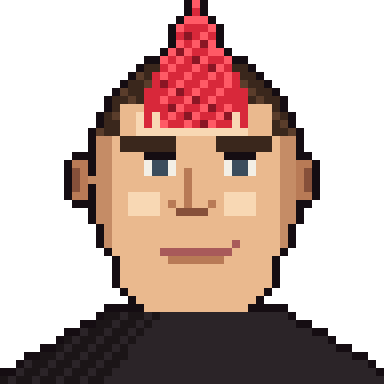
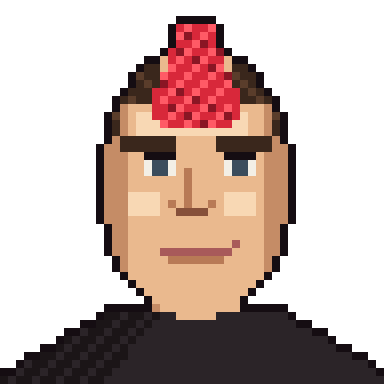
Portraits: Norm narrower/longer face and flat-top mohawk, Skip smaller, Walt beard same colour as hair
Claude-Session: https://claude.ai/code/session_01EHzhXZk3eB39kdtoeYCRr2

diff --git a/src/characters.js b/src/characters.js
@@ -120,12 +120,12 @@ const PX = (cv, st = {}) => {
 };
 const SK = { skin: '#e2a977', skinLt: '#f3cc9f', skinSh: '#b87a56', skinDk: '#86503a' };
 const SK2 = { skin: '#eab98e', skinLt: '#f8d8b4', skinSh: '#c58c66', skinDk: '#93603f' };   // paler
-Object.assign(PAL, { hairLt: '#a67f58', hairLt2: '#c49a6c', beardLt: '#8f6b4c', beardLt2: '#a98462', black: '#1b1517', blk2: '#2b2428', grey: '#8a8f98', greyDk: '#5a5f69', greyLt: '#b8bcc4', brown: '#5a3d2b', brownDk: '#3a271c', brownLt: '#7a573d', blond: '#9a7a52', blondLt: '#c4a26c', red: '#d8283a', redDk: '#8a1624', redLt: '#ff5a66', glass: '#c9d6dc', teal: '#2e6e7a', paisley: '#2e2d3a', paisley2: '#6a6a82', white: '#f3efe6' });
+Object.assign(PAL, { hairLt: '#a67f58', hairLt2: '#c49a6c', beardLt: '#a67f58', beardLt2: '#c49a6c', black: '#1b1517', blk2: '#2b2428', grey: '#8a8f98', greyDk: '#5a5f69', greyLt: '#b8bcc4', brown: '#5a3d2b', brownDk: '#3a271c', brownLt: '#7a573d', blond: '#9a7a52', blondLt: '#c4a26c', red: '#d8283a', redDk: '#8a1624', redLt: '#ff5a66', glass: '#c9d6dc', teal: '#2e6e7a', paisley: '#2e2d3a', paisley2: '#6a6a82', white: '#f3efe6' });
 
 function headBase(P, sk, o = {}) {
   const { px, ell } = P, rx = o.rx || 14, ry = o.ry || 15.5, cx = o.cx || 24, cy = o.cy || 22;
   ell(cx, cy, rx, ry, null, (x) => (x < cx - rx + 3 || x > cx + rx - 3 ? sk.skinSh : sk.skin));
-  for (let y = cy + 6; y <= cy + ry + 1; y++) for (let x = cx - 9; x <= cx + 9; x++) if (y <= cy + ry + 1 - Math.max(0, Math.abs(x - cx) - 6) * 0.9) px(x, y, sk.skin);   // squarer jaw
+  if (o.jaw !== false) for (let y = cy + 6; y <= cy + ry + 1; y++) for (let x = cx - 9; x <= cx + 9; x++) if (y <= cy + ry + 1 - Math.max(0, Math.abs(x - cx) - 6) * 0.9) px(x, y, sk.skin);   // squarer jaw
   px(cx - 7, cy - 8, sk.skinLt, 14, 3); px(cx - 8, cy + 2, sk.skinLt, 4, 3); px(cx + 4, cy + 2, sk.skinLt, 4, 3);
 }
 function neckShirt(P, sk, shirt, shirtSh, y0 = 38, slope = 2.3, start = 12) {
@@ -167,6 +167,11 @@ export function paintDing(cv, st = {}) {
 
 // DEALONE: long windswept brown hair, thin round-rectangular glasses, big open smile, light stubble, paisley bandana, grey jacket.
 export function paintDealone(cv, st = {}) {
+  const tmp = document.createElement('canvas'); paintDealoneFull(tmp, st);
+  cv.width = 48; cv.height = 48; const g = cv.getContext('2d'); g.clearRect(0, 0, 48, 48); g.imageSmoothingEnabled = false;
+  g.drawImage(tmp, 5, 9, 38, 38);   // a bit further away: ~80 % size, standing on the bottom edge
+}
+function paintDealoneFull(cv, st = {}) {
   const P = PX(cv, st), { px, ell, poly } = P;
   // hair behind the head: long, to the shoulders, with a flyaway tuft up-left
   poly([[10, 12], [11, 4], [16, 1], [24, 2], [32, 3], [37, 8], [38, 20], [38, 36], [34, 38], [14, 38], [10, 34], [9, 20]], null, (x, y) => ((x * 3 + y * 2) % 7 < 1 ? 'brownLt' : (x + y * 3) % 11 === 0 ? 'brownDk' : 'brown'));
@@ -258,18 +263,17 @@ export function paintTilah(cv, st = {}) {
   const P = PX(cv, st), { px, ell, poly } = P;
   // mohawk spikes (behind / above the head)
   neckShirt(P, SK2, 'blk2', 'black', 39, 1.7, 11);
-  headBase(P, SK2, { rx: 13, ry: 15.5, cx: 24, cy: 22 });
+  headBase(P, SK2, { rx: 11.6, ry: 16.8, cx: 24, cy: 22.5, jaw: false });                // narrower, longer face (no wide jaw)
   // shaved sides: short dark stubble above and around the ears (no hair on the face)
-  for (let y = 8; y <= 20; y++) for (let x = 10; x <= 38; x++) { const dx = Math.abs(x - 24), inHead = ((x - 24) / 13.4) ** 2 + ((y - 22) / 15.7) ** 2 <= 1; if (!inHead) continue; if (y <= 12 + (dx > 9 ? 4 : 0) && dx >= 5 || (y <= 15 && dx >= 11)) px(x, y, (x * 3 + y * 5) % 4 === 0 ? 'brown' : 'brownDk'); }
+  for (let y = 8; y <= 20; y++) for (let x = 10; x <= 38; x++) { const dx = Math.abs(x - 24), inHead = ((x - 24) / 11.8) ** 2 + ((y - 22.5) / 17) ** 2 <= 1; if (!inHead) continue; if (y <= 12 + (dx > 9 ? 4 : 0) && dx >= 5 || (y <= 15 && dx >= 10)) px(x, y, (x * 3 + y * 5) % 4 === 0 ? 'brown' : 'brownDk'); }
   // tall comb of red spikes: columns of alternating height with pointed tips, leaning slightly back
-  const H = [7, 5, 3, 1, 0, 1, 3, 5, 7], X0 = 20;
-  H.forEach((top, i) => { const x = X0 + i; for (let y = top + 3; y <= 15; y++) px(x, y, (i + y) % 3 === 0 ? 'redLt' : (i * 2 + y) % 5 === 0 ? 'redDk' : 'red'); px(x, top + 2, i % 2 ? 'red' : 'redLt'); px(x, top + 1, i % 2 ? 'redLt' : 'red'); if (i % 2 === 0) px(x, top, 'redLt'); });
-  for (const [x, y] of [[19, 9], [29, 9], [18, 11], [30, 11]]) px(x, y, 'red', 1, 5);
-  px(9, 20, 'skinSh', 2, 5); px(37, 20, 'skinSh', 2, 5); px(9, 21, 'skinDk', 1, 3); px(38, 21, 'skinDk', 1, 3);   // ears
+  const H = [11, 6, 3, 3, 3, 3, 3, 6, 11], X0 = 20;   // flat-topped strip with sloping sides (trapezoid), not a point
+  H.forEach((top, i) => { const x = X0 + i; for (let y = top; y <= 15; y++) px(x, y, (i + y) % 3 === 0 ? 'redLt' : (i * 2 + y) % 5 === 0 ? 'redDk' : 'red'); });
+  px(19, 11, 'red', 1, 4); px(29, 11, 'red', 1, 4);
   // brows, eyes, nose, mouth
   for (const [bx, t] of [[15, 1], [27, -1]]) for (let i = 0; i < 7; i++) px(bx + i, 17 + (t > 0 ? (i > 4 ? 0 : 0) : 0) + (t > 0 ? (i > 4 ? -0 : 0) : 0), 'brownDk', 1, 2);
   eyesAt(P, 20); noseAt(P, 21);
   px(20, 31, '#a85a5a', 9, 1); px(29, 30, '#a85a5a', 1, 1); px(21, 32, 'skinSh', 7, 1);   // easy half-smile
-  talkAt(P, 20, 30, 8);
+  talkAt(P, 20, 31, 8);
   P.outline();
 }

diff --git a/src/version.js b/src/version.js
@@ -1,2 +1,2 @@
 // generated by tools/stamp.mjs
-export const BUILD = { n: 82, time: '2026-10-14T11:37:49.591Z' };
+export const BUILD = { n: 83, time: '2026-10-14T11:40:31.331Z' };
